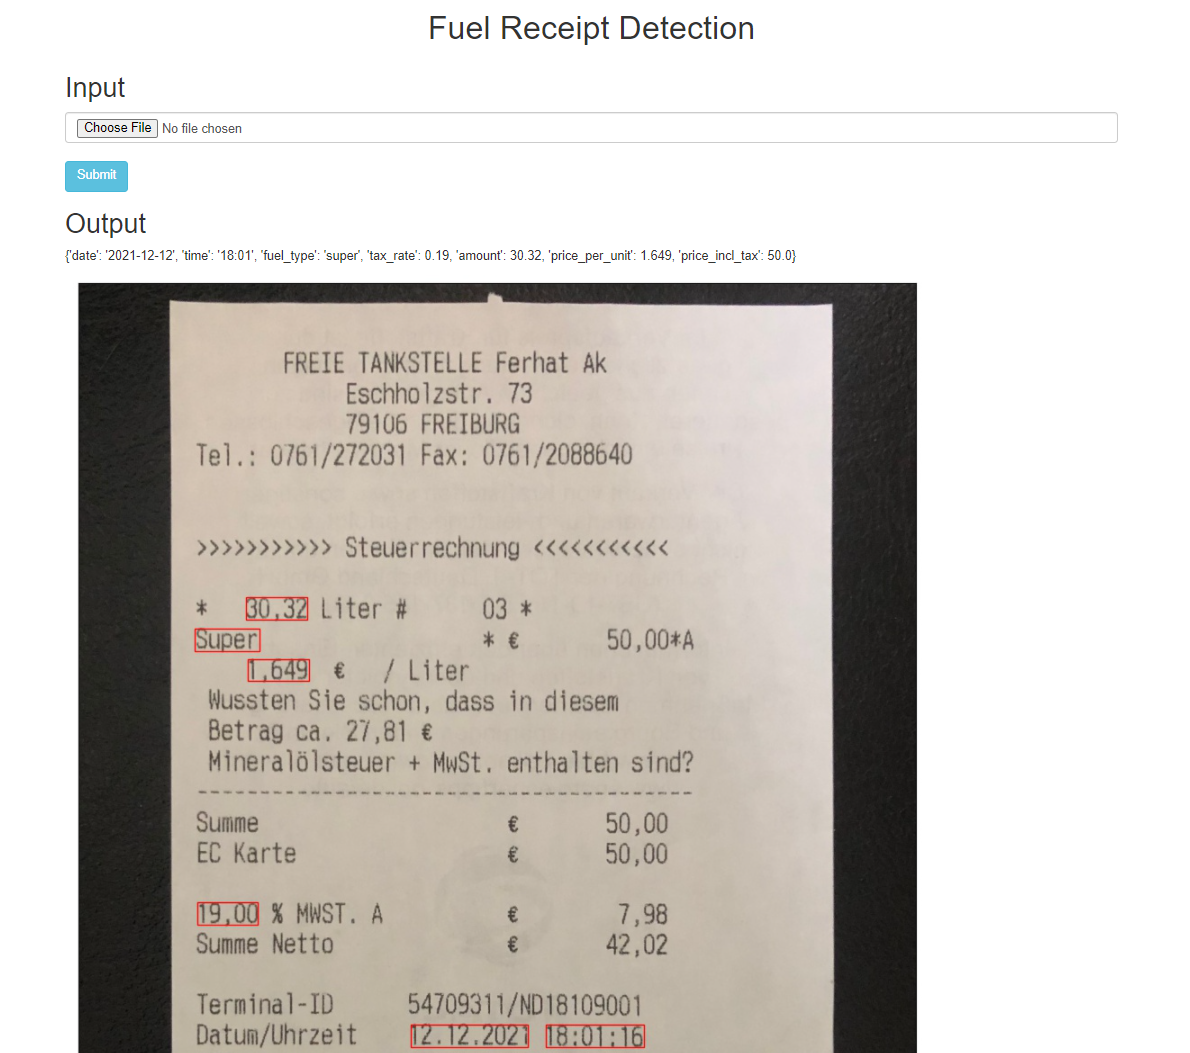
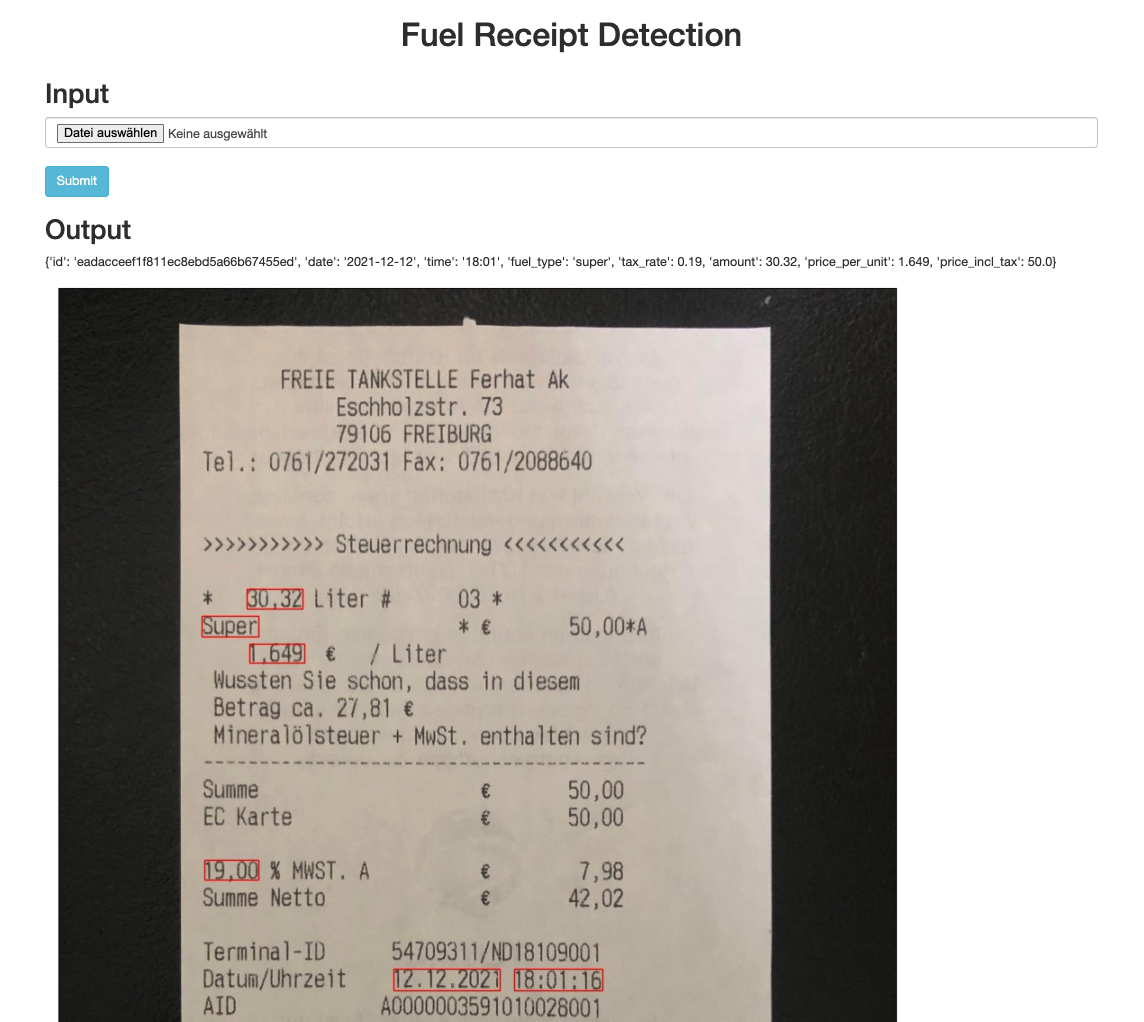
updated screenshot in README

Changed region(s): [[0.0306, 0.0607, 0.9178, 1.0], [0.3365, 0.0, 0.6425, 0.0607], [0.3977, 0.8493, 0.4283, 0.8796]]

diff --git a/README.md b/README.md
@@ -70,13 +70,13 @@ Code: `200`
 {
     "success": true,
     "data": {
-        "id": "87c660a2f16011ec8cc48e49d341ea97",
-        "date": "2022-01-01",
-        "time": "9:41",
+        "id": "eadacceef1f811ec8ebd5a66b67455ed",
+        "date": "2021-12-12",
+        "time": "18:01",
         "fuel_type": "super",
         "tax_rate": 0.19,
-        "amount": 27.95,
-        "price_per_unit": 1.789,
+        "amount": 30.32,
+        "price_per_unit": 1.649,
         "price_incl_tax": 50.0
     }
 }
